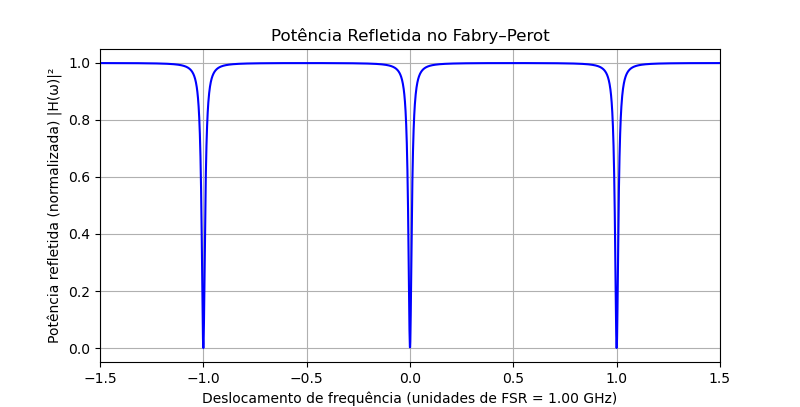
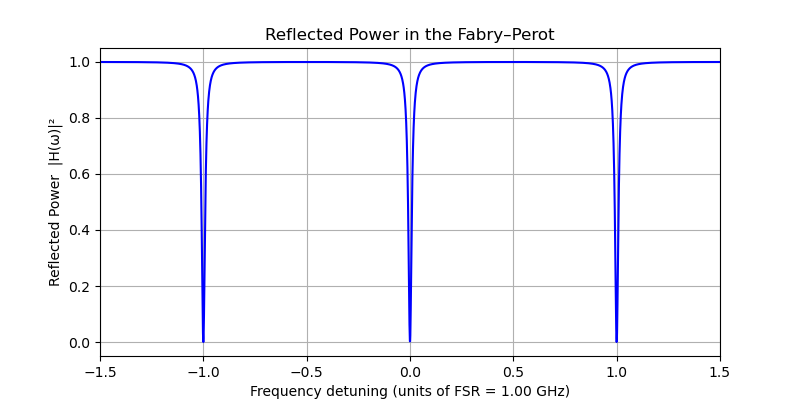
sla

Changed region(s): [[0.125, 0.87, 0.9062, 1.0], [0.125, 0.06, 0.9062, 0.15], [0.0625, 0.18, 0.0938, 0.84]]

diff --git a/Simular_PDH.py b/Simular_PDH.py
@@ -18,7 +18,7 @@ T2 = 1 - R2
 t2 = np.sqrt(T2)
 F = np.pi * np.sqrt(np.sqrt(R1 * R2)) / (1 - np.sqrt(R1 * R2))
 FWHM = FSR / F
-Omega_m =  10e6 # mod freq
+Omega_m =  20*FWHM # mod freq
 beta = 0.3                # indice de modulação
 
 # Finesse e largura de linha
@@ -36,9 +36,9 @@ R = np.abs(H(omega))**2  # Potência refletida normalizada
 # Gráfico
 plt.figure(figsize=(8,4 ))
 plt.plot(omega / FSR, R, 'b')
-plt.title('Potência Refletida no Fabry–Perot')
-plt.xlabel(f'Deslocamento de frequência (unidades de FSR = {FSR/10**9 :.2f} GHz)')
-plt.ylabel('Potência refletida (normalizada) |H(ω)|²')
+plt.title('Reflected Power in the Fabry–Perot')
+plt.xlabel(f'Frequency detuning (units of FSR = {FSR/10**9 :.2f} GHz)')
+plt.ylabel('Reflected Power |H(ω)|²')
 plt.grid(True)
 plt.xlim(-1.5, 1.5)
 plt.show()
@@ -79,7 +79,7 @@ fs = 200e6  # taxa de amostragem
 t = np.arange(0, 20e-6, 1/fs)  # 20 µs
 
 # Frequência angular da portadora sendo varrida
-detunings = np.linspace(-FSR/13, FSR/13, 1000)  # em Hz
+detunings = np.linspace(-0.02*FSR, 0.02*FSR, 1000)  # em Hz
 PDH_error = []
 
 def erro_aprox(om):
@@ -109,9 +109,9 @@ plt.figure(figsize=(7,5))
 plt.plot(detunings / FSR, PDH_error)
 plt.legend()
 plt.axhline(0, color='k', lw=0.8)
-plt.xlabel("Desvio de frequência (Δν / FSR)")
-plt.ylabel("Sinal de erro PDH (a.u.)")
-plt.title("Simulação do sinal Pound–Drever–Hall")
+plt.xlabel("Frequency detuning (Δν / FSR)")
+plt.ylabel("PDH error signal")
+plt.title("Simulation of the Pound–Drever–Hall signal")
 plt.grid(True)
 plt.show()
 
